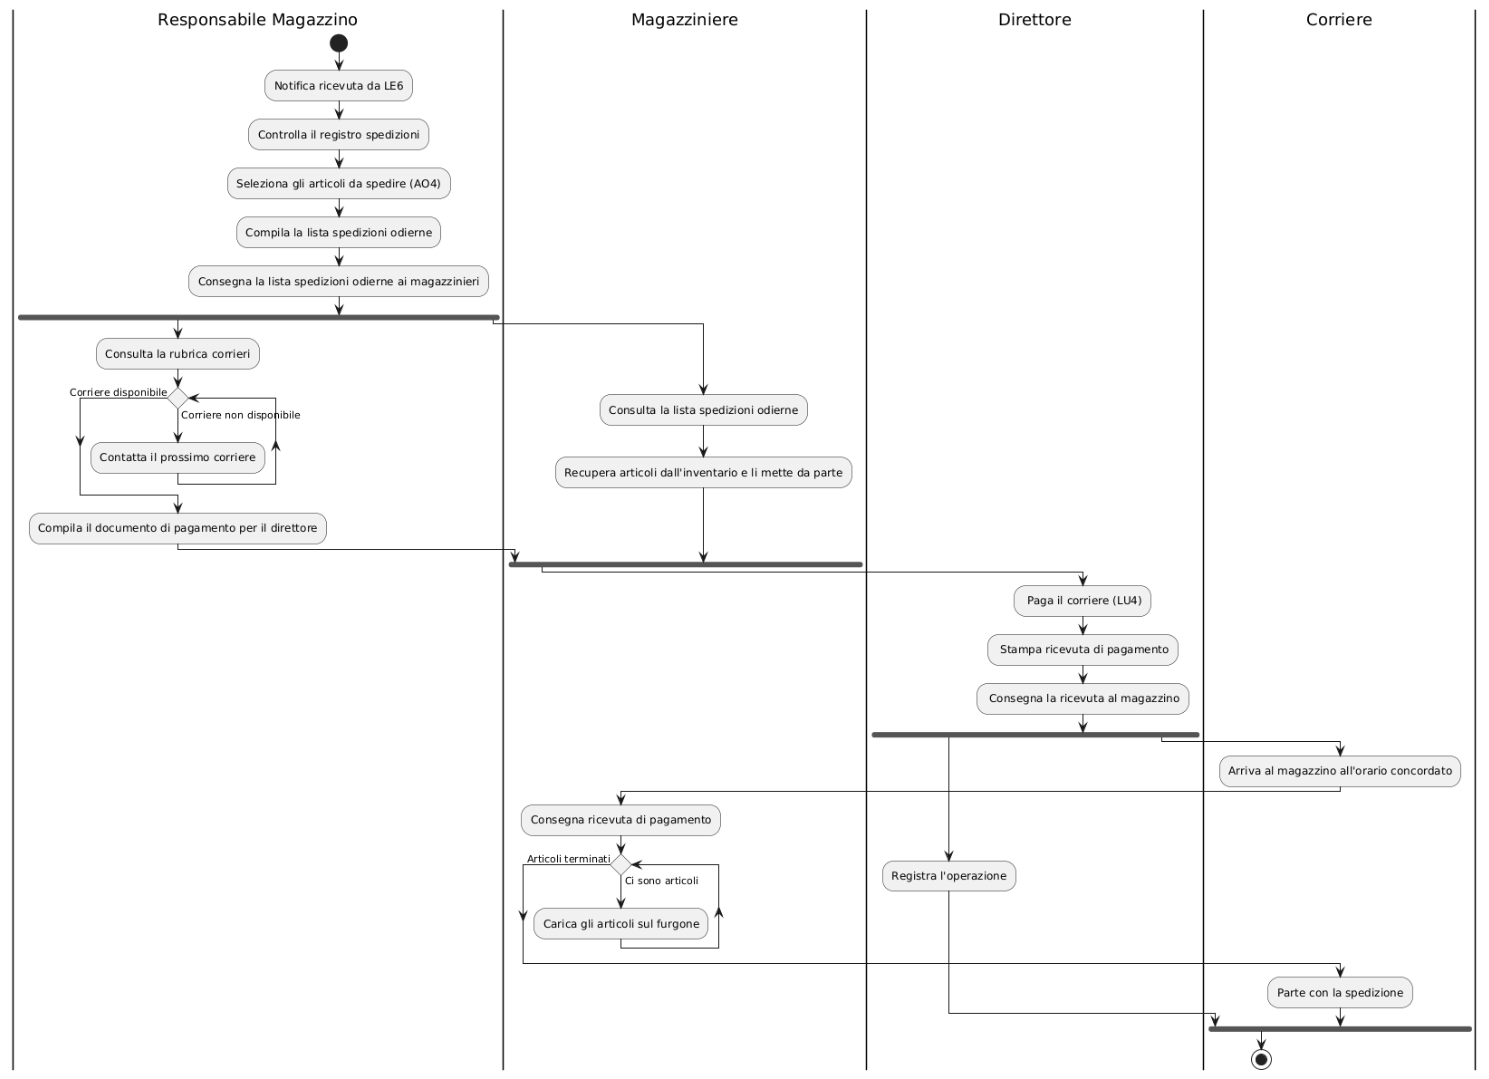
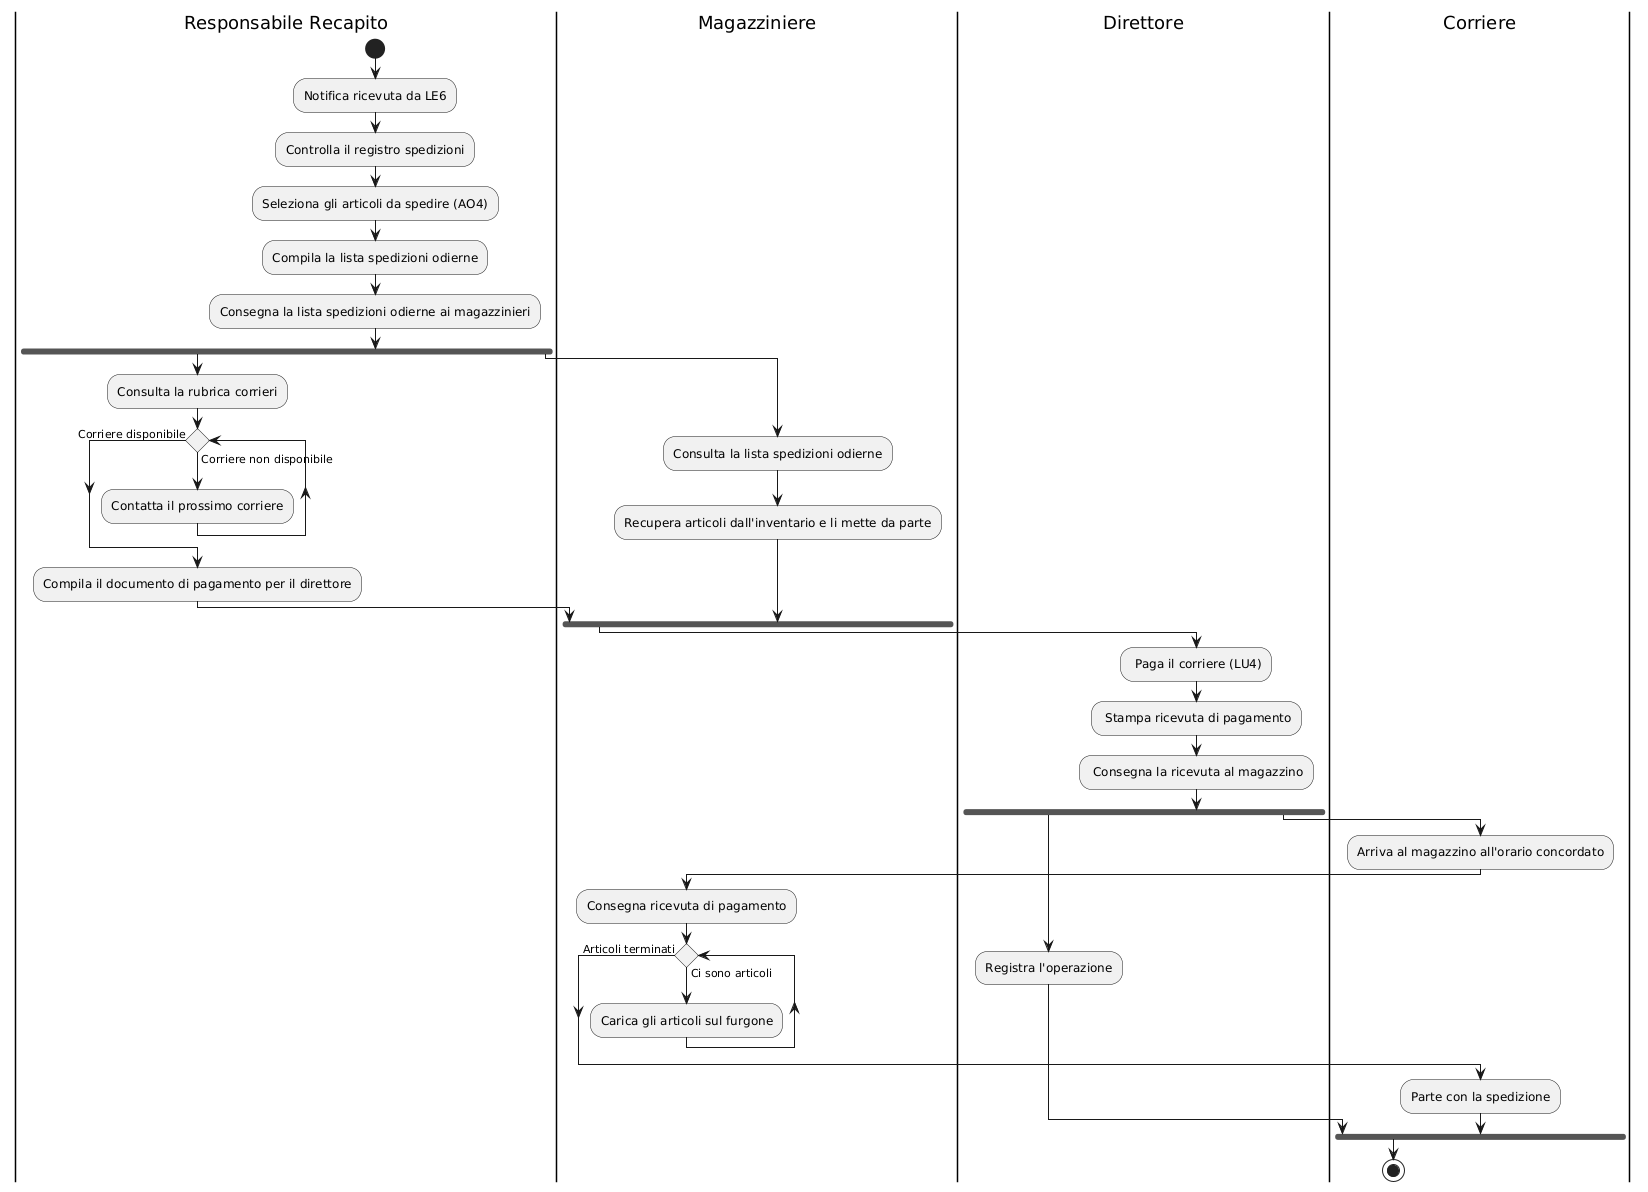
fixed inconsistency

diff --git a/main.tex b/main.tex
@@ -251,9 +251,9 @@ senza che il cliente vada in sede e senza che lo sportellista lo inserisca manua
 \newpage
 \subsubsection{Invio corrispondenza}
 \textbf{Nome processo} (identificativo): Invio corrispondenza (AO1) \\
-\textbf{Attori coinvolti}: Responsabile magazzino, Magazziniere, Corriere \\
+\textbf{Attori coinvolti}: Responsabile recapito, Magazziniere, Corriere \\
 \textbf{Archivi coinvolti}: Registro spedizioni, Inventario, Rubrica corrieri, Lista spedizioni odierne, Registro pagamenti \\
-\textbf{Descrizione del processo}: Quando notificato da LE6, il \textbf{responsabile magazzino} controlla nel \underline{registro spedizioni} il numero di articoli
+\textbf{Descrizione del processo}: Quando notificato da LE6, il \textbf{responsabile recapito} controlla nel \underline{registro spedizioni} il numero di articoli
 da spedire verso l'esterno. Sceglie un sottoinsieme di articoli (si veda AO4) e compila la \underline{lista spedizioni odierne}, 
 nella quale va ad inserire gli articoli da spedire in giornata. Una volta compilata la lista, consulta la \underline{rubrica corrieri} al fine
 di trovare quello più conveniente alle condizioni specifiche. Una volta effettuata una stima, inizia a contattare le sedi di corrieri, a partire dalla più 
@@ -298,7 +298,7 @@ Si riporta di seguito il dfd di livello 1:
       \hline 
       Portalettere & Uno dei dipendenti che lavora nella sezione corrispondenze & -LE1 & $\bullet$ Rubrica degli indirizzi \\ 
       \hline
-      Responsabile magazzino & Il dipendente a capo del magazzino & -AO1 &
+      Responsabile recapito & Il dipendente a capo del recapito & -AO1 &
       \begin{itemize}
         \item{Registro spedizioni}
         \item{Lista spedizioni odierne}
@@ -336,7 +336,7 @@ Si riporta di seguito il dfd di livello 1:
     Registro spedizioni & Archivio in cui sono conservate le informazioni delle spedizioni accettate & -AO1 &
     \begin{itemize}
       \item{Sportellista}
-      \item{Responsabile magazzino}
+      \item{Responsabile recapito}
     \end{itemize} \\
     \hline
     Inventario & Archivio che testimonia lo stato del magazzino, conservando informazioni sugli articoli in esso presenti & -AO1 &
@@ -456,10 +456,10 @@ Di seguito è riportato il diagramma dei casi d'uso per \textbf{l'Area Funzional
     \end{enumerate}
   \item{(MUST)} Assegnare ad ogni spedizione un codice univoco [magazziniere, portalettere];
   \item{(MUST)} Identificare una spedizione solo tramite il suo codice [magazziniere, portalettere];
-  \item{(MUST)} Visualizzare la lista dei corrieri esterni [responsabile magazzino];
-  \item{(MAY)}  Aggiornare la lista dei corrieri con i prezzi automaticamente aggiornati [responsabile magazzino];
-  \item{(MUST)} Calcolare un preventivo per il corriere esterno selezionato [responsabile magazzino];
-  \item{(MUST)} Prenotare il ritiro da parte di un corriere [responsabile magazzino];
+  \item{(MUST)} Visualizzare la lista dei corrieri esterni [responsabile recapito];
+  \item{(MAY)}  Aggiornare la lista dei corrieri con i prezzi automaticamente aggiornati [responsabile recapito];
+  \item{(MUST)} Calcolare un preventivo per il corriere esterno selezionato [responsabile recapito];
+  \item{(MUST)} Prenotare il ritiro da parte di un corriere [responsabile recapito];
   \item{(MUST)} Registrare il pagamento al corriere [direttore]
 \end{enumerate}
 
